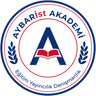
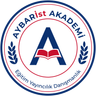
Kurum adı tüm sitede marka renkleriyle yazıldı, logoda İ ve st kalınlığı eşitlendi

Changed region(s): [[0.125, 0.0938, 0.9062, 0.4062]]

diff --git a/src/components/programs/ProgramExplorer.tsx b/src/components/programs/ProgramExplorer.tsx
@@ -19,6 +19,7 @@ import { programCategories, programsIntro } from "@/data/content";
 import { getWhatsAppUrl } from "@/config/site";
 import { scrollToSection } from "@/lib/scroll";
 import { NextChapterBanner } from "@/components/motion/Primitives";
+import BrandText from "@/components/brand/BrandText";
 
 const CATEGORY_ICONS: Record<
   string,
@@ -226,11 +227,11 @@ export default function ProgramExplorer() {
                       {item.categoryTitle}
                     </span>
                     <h4 className="text-lg sm:text-xl font-bold text-ink">
-                      {item.title}
+                      <BrandText>{item.title}</BrandText>
                     </h4>
                     {item.description && (
                       <p className="text-sm text-ink-muted mt-2 leading-relaxed">
-                        {item.description}
+                        <BrandText>{item.description}</BrandText>
                       </p>
                     )}
                   </div>
@@ -293,18 +294,18 @@ export default function ProgramExplorer() {
                 >
                   <div className="absolute top-0 inset-x-0 h-1 bg-gradient-to-r from-crimson-600 via-cobalt-400 to-crimson-600" />
                   <h4 className="text-xl sm:text-2xl font-extrabold text-white">
-                    {item.title}
+                    <BrandText>{item.title}</BrandText>
                   </h4>
 
                   {item.leaderNote && (
                     <p className="mt-1.5 text-sm sm:text-base font-bold text-cobalt-200">
-                      {item.leaderNote}
+                      <BrandText>{item.leaderNote}</BrandText>
                     </p>
                   )}
 
                   {item.description && (
                     <p className="mt-2 text-sm sm:text-base text-cobalt-100/90 leading-relaxed max-w-3xl">
-                      {item.description}
+                      <BrandText>{item.description}</BrandText>
                     </p>
                   )}
 
@@ -338,18 +339,18 @@ export default function ProgramExplorer() {
                 <div className="absolute top-0 inset-x-0 h-1 bg-gradient-to-r from-crimson-600 via-cobalt-600 to-crimson-600 opacity-0 group-hover:opacity-100 transition-opacity duration-300" />
                 <div>
                   <h4 className="text-lg sm:text-xl font-bold text-ink group-hover:text-cobalt-950 transition-colors">
-                    {item.title}
+                    <BrandText>{item.title}</BrandText>
                   </h4>
 
                   {item.leaderNote && (
                     <p className="text-xs sm:text-sm font-bold text-cobalt-700 mt-1">
-                      {item.leaderNote}
+                      <BrandText>{item.leaderNote}</BrandText>
                     </p>
                   )}
 
                   {item.description && (
                     <p className="text-sm text-ink-muted mt-2 leading-relaxed">
-                      {item.description}
+                      <BrandText>{item.description}</BrandText>
                     </p>
                   )}
 

diff --git a/src/components/layout/PageHero.tsx b/src/components/layout/PageHero.tsx
@@ -1,4 +1,5 @@
 import React from "react";
+import BrandText from "@/components/brand/BrandText";
 
 /**
  * Shared hero: eyebrow, the page slogan as H1, optional subtitle, actions, media.
@@ -35,21 +36,21 @@ export default function PageHero({
   wideMedia?: boolean;
 }) {
   return (
-    <section className="studio-hero relative overflow-hidden border-b border-white/15 py-12 text-white sm:py-16 lg:py-20">
+    <section className="brand-on-dark studio-hero relative overflow-hidden border-b border-white/15 py-12 text-white sm:py-16 lg:py-20">
       <div className="relative z-10 mx-auto grid max-w-[1380px] grid-cols-1 items-center gap-8 px-4 sm:px-6 lg:grid-cols-12 lg:gap-12 lg:px-10">
         <div className={media ? (wideMedia ? "lg:col-span-6" : "lg:col-span-7") : "lg:col-span-12"}>
           {eyebrow ? (
             <p className="mb-4 inline-flex max-w-full items-center gap-2 text-xs font-bold tracking-[0.04em] text-white">
               <span className="h-2 w-2 shrink-0 rounded-full bg-crimson-500" />
-              <span>{eyebrow}</span>
+              <span><BrandText>{eyebrow}</BrandText></span>
             </p>
           ) : null}
           <h1 className="max-w-4xl text-balance text-[1.55rem] font-extrabold leading-[1.45] tracking-tight text-white sm:text-4xl sm:leading-[1.35] lg:text-[2.65rem]">
-            {title}
+            <BrandText>{title}</BrandText>
           </h1>
           {subtitle ? (
             <p className="mt-4 max-w-2xl text-balance text-base leading-relaxed text-cobalt-50 sm:text-lg">
-              {subtitle}
+              <BrandText>{subtitle}</BrandText>
             </p>
           ) : null}
           {children ? (
@@ -74,7 +75,7 @@ export function SectionHeading({ children }: { children: React.ReactNode }) {
   return (
     <h2 className="flex max-w-4xl items-start gap-3 text-balance text-2xl font-extrabold leading-[1.4] tracking-tight text-cobalt-950 sm:text-3xl lg:text-4xl">
       <span className="mt-[0.45em] h-2.5 w-2.5 shrink-0 rounded-full bg-crimson-600" aria-hidden="true" />
-      <span>{children}</span>
+      <span><BrandText>{children}</BrandText></span>
     </h2>
   );
 }

diff --git a/src/components/brand/AybarCrest.tsx b/src/components/brand/AybarCrest.tsx
@@ -2,6 +2,7 @@
 
 import React from "react";
 import { siteConfig } from "@/config/site";
+import BrandText from "@/components/brand/BrandText";
 
 /**
  * Gerçek Aybar Akademi dairesel armasını (siteConfig.logos.emblem)
@@ -54,19 +55,8 @@ export function AybarBrandLockup({
       <div className="flex flex-col min-w-0 justify-center">
         {/* Ana Kurumsal Başlık (AYBARİst AKADEMİ) — Türkçedeki noktalı büyük İ harfinin üst noktası asla kırpılmaz */}
         <div className="font-brand font-black text-[0.92rem] sm:text-[1.15rem] tracking-[0.01em] leading-tight pt-0.5 pb-0.5 flex items-center gap-1.5 antialiased select-none whitespace-nowrap">
-          <span className="inline-flex items-baseline" aria-label="AYBARİst">
-            <span className={variant === "dark" ? "text-white" : "text-[#0044B5]"}>
-              AYBAR
-            </span>
-            <span className="text-[#DC1B2E]">İ</span>
-            <span className="text-[#DC1B2E] lowercase">st</span>
-          </span>
-          <span
-            className={`uppercase ${
-              variant === "dark" ? "text-cobalt-200" : "text-cobalt-700"
-            }`}
-          >
-            AKADEMİ
+          <span className={variant === "dark" ? "brand-on-dark" : ""}>
+            <BrandText>{siteConfig.name}</BrandText>
           </span>
         </div>
         {/* Kurumsal Alt Başlık */}
@@ -119,7 +109,7 @@ export function AybarInstitutionalSeal({
       </div>
 
       <div className="mt-4 font-brand font-extrabold text-sm sm:text-base tracking-[0.06em] text-cobalt-950">
-        {siteConfig.name}
+        <BrandText>{siteConfig.name}</BrandText>
       </div>
     </div>
   );

diff --git a/src/app/page.tsx b/src/app/page.tsx
@@ -7,6 +7,7 @@ import PageHero, { SectionHeading, SloganMark } from "@/components/layout/PageHe
 import HomeSloganSlider from "@/components/home/HomeSloganSlider";
 import { QuoteRequestSection } from "@/components/forms/QuickQuoteForm";
 import { assetPath } from "@/config/site";
+import BrandText from "@/components/brand/BrandText";
 
 const YELPAZE = [
   "Sınav Hazırlık: LGS ve YKS (TYT-AYT) odaklı nokta atışı koçluk ve birebir özel ders programları",
@@ -59,7 +60,7 @@ export default function HomePage() {
           </div>
           <div className="lg:col-span-7">
             <p className="text-base leading-relaxed text-ink-muted">
-              Her öğrencinin öğrenme hızı, potansiyeli ve hedefleri parmak izi gibi tektir. AYBARİst AKADEMİ olarak; 33 yıllık köklü birikimimiz ve alanında uzman ve yeni nesil Maarif Modeline hâkim öğretmen kadromuzla, ezberci yaklaşımlardan uzak, tamamen öğrenciye özel eğitim modelleri sunuyoruz.
+              Her öğrencinin öğrenme hızı, potansiyeli ve hedefleri parmak izi gibi tektir. <BrandText>AYBARİst AKADEMİ</BrandText> olarak; 33 yıllık köklü birikimimiz ve alanında uzman ve yeni nesil Maarif Modeline hâkim öğretmen kadromuzla, ezberci yaklaşımlardan uzak, tamamen öğrenciye özel eğitim modelleri sunuyoruz.
             </p>
             <p className="mt-3 text-base leading-relaxed text-ink-muted">
               Amacımız yalnızca sınavlara hazırlamak değil; öğrencinin öğrenme tutkusunu canlandırmak ve onu hedeflerine en sağlam adımlarla ulaştırmaktır.

diff --git a/src/app/hakkimizda/page.tsx b/src/app/hakkimizda/page.tsx
@@ -6,6 +6,7 @@ import { assetPath } from "@/config/site";
 import { PhotoFrame, NextChapterBanner } from "@/components/motion/Primitives";
 import Breadcrumbs from "@/components/layout/Breadcrumbs";
 import PageHero, { SectionHeading, SloganMark } from "@/components/layout/PageHero";
+import BrandText from "@/components/brand/BrandText";
 
 export default function HakkimizdaPage() {
   return (
@@ -28,7 +29,7 @@ export default function HakkimizdaPage() {
           />
         }
       >
-        <p>{aboutContent.introParagraphs[0]}</p>
+        <p><BrandText>{aboutContent.introParagraphs[0]}</BrandText></p>
         <p>{aboutContent.introParagraphs[1]}</p>
       </PageHero>
 
@@ -45,7 +46,7 @@ export default function HakkimizdaPage() {
                   {sol.title}
                 </h3>
                 <p className="mt-3 text-[15px] leading-relaxed text-ink-muted sm:text-base">
-                  {sol.description}
+                  <BrandText>{sol.description}</BrandText>
                 </p>
               </article>
             ))}
@@ -72,7 +73,7 @@ export default function HakkimizdaPage() {
             ))}
           </div>
           <p className="mx-auto mt-8 max-w-3xl text-base leading-relaxed text-ink sm:text-lg">
-            {aboutContent.closingParagraph}
+            <BrandText>{aboutContent.closingParagraph}</BrandText>
           </p>
         </div>
       </section>

diff --git a/src/components/brand/BrandText.tsx b/src/components/brand/BrandText.tsx
@@ -1,0 +1,37 @@
+import React from "react";
+
+const BRAND = /AYBARİst((?:['’]\p{L}+)?(?: AKADEMİ(?:['’]\p{L}+)?)?)/gu;
+
+function paint(text: string): React.ReactNode {
+  const parts: React.ReactNode[] = [];
+  let last = 0;
+  for (const match of text.matchAll(BRAND)) {
+    parts.push(text.slice(last, match.index));
+    parts.push(
+      <span key={match.index} className="normal-case">
+        <span className="text-[color:var(--brand-main,#0044b5)]">AYBAR</span>
+        <span className="text-[color:var(--brand-accent,#dc1b2e)]">İst</span>
+        <span className="text-[color:var(--brand-main,#0044b5)]">{match[1]}</span>
+      </span>
+    );
+    last = match.index + match[0].length;
+  }
+  parts.push(text.slice(last));
+  return parts;
+}
+
+function walk(node: React.ReactNode): React.ReactNode {
+  if (typeof node === "string") return paint(node);
+  if (Array.isArray(node)) {
+    return node.map((child, i) => <React.Fragment key={i}>{walk(child)}</React.Fragment>);
+  }
+  if (React.isValidElement<{ children?: React.ReactNode }>(node) && node.type === React.Fragment) {
+    return walk(node.props.children);
+  }
+  return node;
+}
+
+/** Metindeki AYBARİst AKADEMİ adını marka renkleriyle yazar. Koyu zeminde üst öğeye brand-on-dark verilir. */
+export default function BrandText({ children }: { children: React.ReactNode }) {
+  return <>{walk(children)}</>;
+}

diff --git a/src/app/egitim-modelimiz/page.tsx b/src/app/egitim-modelimiz/page.tsx
@@ -6,6 +6,7 @@ import { assetPath, getWhatsAppUrl } from "@/config/site";
 import { PhotoFrame, NextChapterBanner } from "@/components/motion/Primitives";
 import Breadcrumbs from "@/components/layout/Breadcrumbs";
 import PageHero, { SectionHeading, SloganMark } from "@/components/layout/PageHero";
+import BrandText from "@/components/brand/BrandText";
 
 export default function EgitimModelimizPage() {
   return (
@@ -47,7 +48,7 @@ export default function EgitimModelimizPage() {
               <SectionHeading>{sec.title}</SectionHeading>
               {sec.intro ? (
                 <p className="mt-4 max-w-3xl text-base leading-relaxed text-ink-muted sm:text-lg">
-                  {sec.intro}
+                  <BrandText>{sec.intro}</BrandText>
                 </p>
               ) : null}
               <div className="mt-6 space-y-5">
@@ -56,7 +57,7 @@ export default function EgitimModelimizPage() {
                     {pt.label ? (
                       <h3 className="text-lg font-bold leading-snug text-ink sm:text-xl">{pt.label}</h3>
                     ) : null}
-                    <p className="mt-1 text-[15px] leading-relaxed text-ink-muted sm:text-base">{pt.text}</p>
+                    <p className="mt-1 text-[15px] leading-relaxed text-ink-muted sm:text-base"><BrandText>{pt.text}</BrandText></p>
                   </div>
                 ))}
               </div>

diff --git a/src/components/motion/Primitives.tsx b/src/components/motion/Primitives.tsx
@@ -3,6 +3,7 @@
 import React from "react";
 import Link from "next/link";
 import { ArrowUpRight } from "lucide-react";
+import BrandText from "@/components/brand/BrandText";
 
 export const LUXURY_EASE = [0.22, 1, 0.36, 1] as const;
 
@@ -233,15 +234,15 @@ export function NextChapterBanner({
   buttonLabel?: string;
 }) {
   return (
-    <section className="bg-cobalt-950 text-white py-14 sm:py-16 border-t border-white/10">
+    <section className="brand-on-dark bg-cobalt-950 text-white py-14 sm:py-16 border-t border-white/10">
       <div className="max-w-[1380px] mx-auto px-4 sm:px-6 lg:px-10">
         <div className="flex flex-col md:flex-row md:items-center justify-between gap-6">
           <div className="max-w-2xl">
             <h3 className="text-2xl font-extrabold leading-[1.2] tracking-tight text-white sm:text-3xl">
-              {title}
+              <BrandText>{title}</BrandText>
             </h3>
             <p className="mt-2 text-sm sm:text-base text-cobalt-200 leading-relaxed">
-              {description}
+              <BrandText>{description}</BrandText>
             </p>
           </div>
 

diff --git a/src/components/layout/Footer.tsx b/src/components/layout/Footer.tsx
@@ -4,6 +4,7 @@ import { ArrowUpRight, Phone, Mail, MapPin, Globe2 } from "lucide-react";
 import { siteConfig, getWhatsAppUrl, assetPath } from "@/config/site";
 import { programCategories } from "@/data/content";
 import { AybarBrandLockup } from "@/components/brand/AybarCrest";
+import BrandText from "@/components/brand/BrandText";
 
 export default function Footer() {
   return (
@@ -112,7 +113,7 @@ export default function Footer() {
         {/* Bottom Bar + Eroğlu Solutions Signature — WhatsApp butonunun altında kalmaması için güvenli pb-20 ve lg:mr-52 */}
         <div className="py-8 pb-24 border-t border-white/10 flex flex-col lg:flex-row items-center justify-between gap-5 text-xs sm:text-[13px] text-cobalt-300 text-center lg:text-left">
           <div className="text-cobalt-200" suppressHydrationWarning>
-            © {new Date().getFullYear()} {siteConfig.name} ·{" "}
+            © {new Date().getFullYear()} <span className="brand-on-dark"><BrandText>{siteConfig.name}</BrandText></span> ·{" "}
             {siteConfig.founder.name} ({siteConfig.founder.role})
           </div>
 

diff --git a/src/app/neden-farkliyiz/page.tsx b/src/app/neden-farkliyiz/page.tsx
@@ -6,6 +6,7 @@ import { assetPath, getWhatsAppUrl } from "@/config/site";
 import { PhotoFrame, NextChapterBanner } from "@/components/motion/Primitives";
 import Breadcrumbs from "@/components/layout/Breadcrumbs";
 import PageHero, { SectionHeading, SloganMark } from "@/components/layout/PageHero";
+import BrandText from "@/components/brand/BrandText";
 
 export default function NedenFarkliyizPage() {
   return (
@@ -49,7 +50,7 @@ export default function NedenFarkliyizPage() {
                 {principle.items.map((item) => (
                   <div key={item.title}>
                     <h3 className="text-lg font-bold leading-snug text-cobalt-950 sm:text-xl">{item.title}</h3>
-                    <p className="mt-1 text-[15px] leading-relaxed text-ink-muted sm:text-base">{item.detail}</p>
+                    <p className="mt-1 text-[15px] leading-relaxed text-ink-muted sm:text-base"><BrandText>{item.detail}</BrandText></p>
                   </div>
                 ))}
               </div>

diff --git a/src/components/faq/FaqSection.tsx b/src/components/faq/FaqSection.tsx
@@ -3,6 +3,7 @@
 import React, { useState } from "react";
 import { ChevronDown, HelpCircle } from "lucide-react";
 import { getWhatsAppUrl } from "@/config/site";
+import BrandText from "@/components/brand/BrandText";
 
 export interface FaqItem {
   question: string;
@@ -118,7 +119,7 @@ export default function FaqSection({
                   </button>
                   {isOpen && (
                     <div className="px-4 sm:px-5 pb-4 pt-1 text-xs sm:text-sm text-ink-muted leading-relaxed border-t border-cobalt-900/5 bg-paper/40">
-                      <p>{item.answer}</p>
+                      <p><BrandText>{item.answer}</BrandText></p>
                     </div>
                   )}
                 </div>

diff --git a/src/components/home/HomeSloganSlider.tsx b/src/components/home/HomeSloganSlider.tsx
@@ -2,6 +2,7 @@
 
 import React, { useEffect, useState } from "react";
 import { assetPath } from "@/config/site";
+import BrandText from "@/components/brand/BrandText";
 
 const SLIDES = [
   {
@@ -40,7 +41,7 @@ const SLIDES = [
     alt: "Birebir ders çalışan öğrenci",
     slogan: (
       <>
-        Değişen Dünyaya AYBARİst&apos;in Gücüyle Hazırlanın
+        <span className="brand-on-dark"><BrandText>{"Değişen Dünyaya AYBARİst'in Gücüyle Hazırlanın"}</BrandText></span>
       </>
     ),
   },
